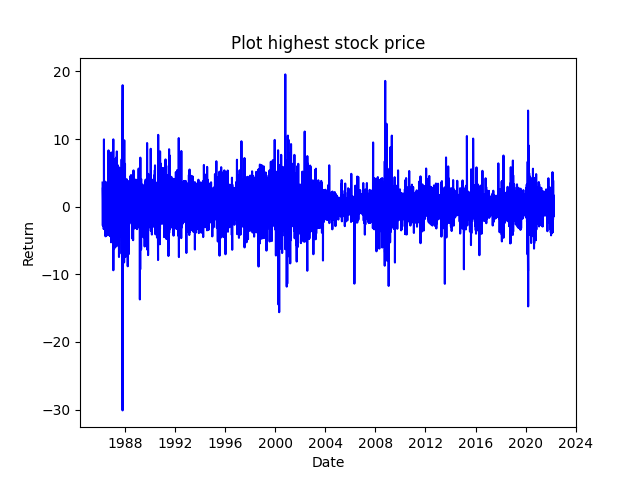
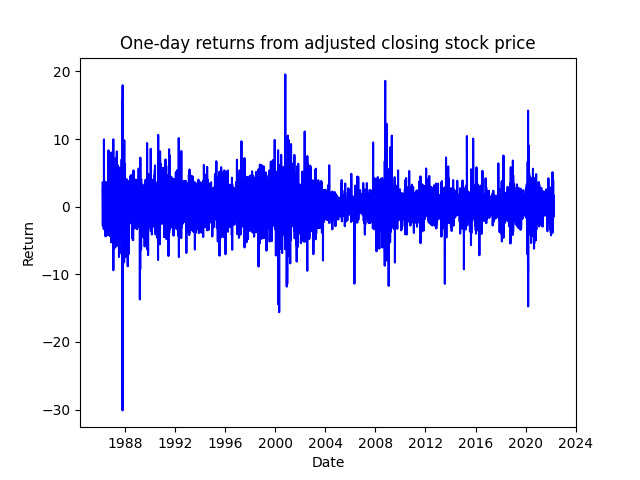
Added detailed look at subsets of one-day return from adj. closing price

Changed region(s): [[0.1875, 0.0625, 0.8438, 0.125]]

diff --git a/MSFT_GP/main.py b/MSFT_GP/main.py
@@ -43,7 +43,7 @@ def plot_return_ts():
               "Return",
               "Date",
               plot_format="b",
-              title="Plot highest stock price",
+              title="One-day returns from adjusted closing stock price",
               mode="Standard",
               tick_interval_x=parameters.tick_interval_x)
 
@@ -65,12 +65,50 @@ def plot_return_full():
               "Return",
               "Date",
               plot_format="b",
-              title="Plot highest stock price",
+              title="",
               mode="Full",
               tick_interval_x=parameters.tick_interval_x,
               nlag_acf=360)
 
+def plot_return_full_subs():
+    # Parameters
+    parameters_low = Parameters(start_date="1993-01-01",
+                                end_date="1995-12-31",
+                                tick_interval_x=1000,
+                                use_return=True,
+                                prediction_horizon=10,
+                                target_label="Adj Close")
 
+    parameters_high = Parameters(start_date="2000-01-01",
+                                 end_date="2003-12-31",
+                                 tick_interval_x=1000,
+                                 use_return=True,
+                                 prediction_horizon=10,
+                                 target_label="Adj Close")
+
+    # Load dataset
+    raw_data = load_msft(parameters_low)
+    data_subs_low = select_data_time(raw_data, parameters_low.start_date, parameters_low.end_date)
+    data_subs_high = select_data_time(raw_data, parameters_high.start_date, parameters_high.end_date)
+
+    # Plot
+    plot_data(data_subs_low,
+              "Return",
+              "Date",
+              plot_format="b",
+              title="",
+              mode="Full",
+              tick_interval_x=parameters_low.tick_interval_x,
+              nlag_acf=360)
+
+    plot_data(data_subs_high,
+              "Return",
+              "Date",
+              plot_format="b",
+              title="",
+              mode="Full",
+              tick_interval_x=parameters_high.tick_interval_x,
+              nlag_acf=360)
 
 def make_arg_parser():
     """
@@ -81,7 +119,7 @@ def make_arg_parser():
     """
 
     parser = ArgumentParser()
-    parser.add_argument("--mode", type=str, help="Mode: init_example/plot_return_ts/plot_return_full", required=False)
+    parser.add_argument("--mode", type=str, help="Mode: init_example/plot_return_ts/plot_return_full/plot_return_full_subs", required=False)
 
     return parser
 
@@ -103,6 +141,8 @@ def main():
         plot_return_ts()
     elif mode == "plot_return_full":
         plot_return_full()
+    elif mode == "plot_return_full_subs":
+        plot_return_full_subs()
     else:
         print("Invalid mode")
 

diff --git a/MSFT_GP/Docs/Analyses.md b/MSFT_GP/Docs/Analyses.md
@@ -68,5 +68,18 @@ Notes:
   * PSD is flat(ish) => white noise
 
 In order to make sure to not miss anything, it makes sense to look at some subsets of the data with constant variance. 
+To generate the plot, run `python -m main --mode plot_return_full_subs`
+<p align="center">
+  <img src="resources/OneDayReturns_ClosingAdj_AllPlotsSubsLowVar.png" alt="drawing" width="400"/> &nbsp;&nbsp;&nbsp;  
+    <img src="resources/OneDayReturns_ClosingAdj_AllPlotsSubsHighVar.png" alt="drawing" width="400"/>
+  <br>
+  <em>Figure 4: Detailed look at subsets of the data assumed stationary.</em>
+</p>
 
+Notes:
+* Timeframe with low variance 1st January 1993 - 31st December 1995 (left)
+* Timeframe with high variance 1st January 2000 - 31st December 2003 (right)
+* Pretty much confirms results in Figure 3 => No autocorrelation in the data
+
+**Bottom line:** Predicting one-day returns using GPs will not work due to the lack of temporal correlation. 
 
